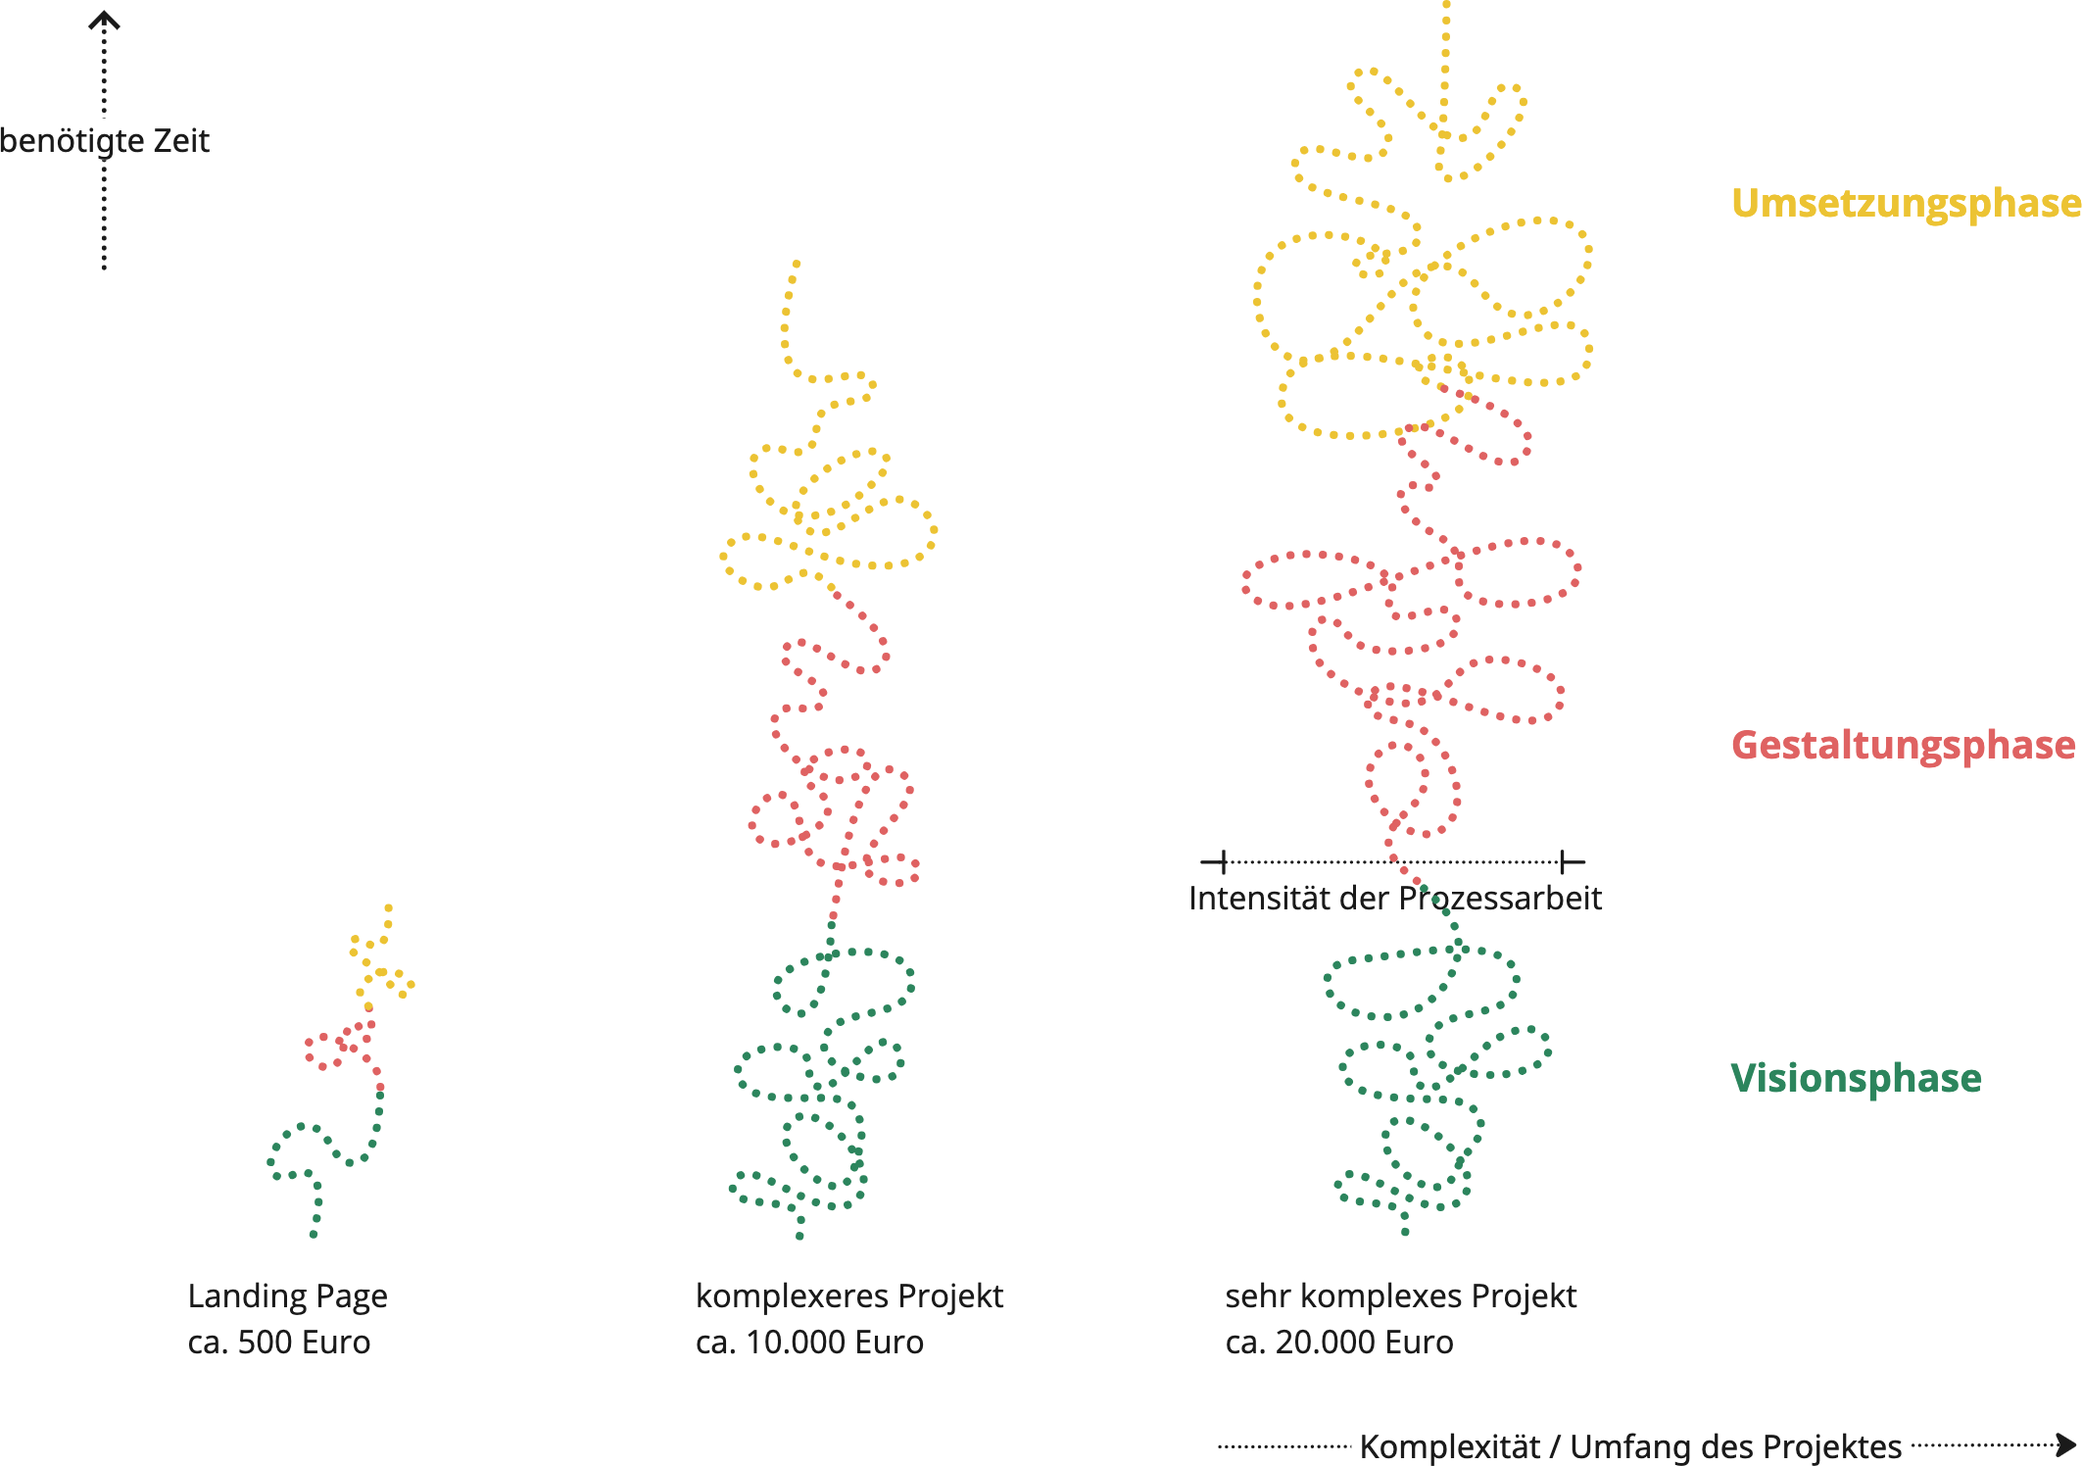
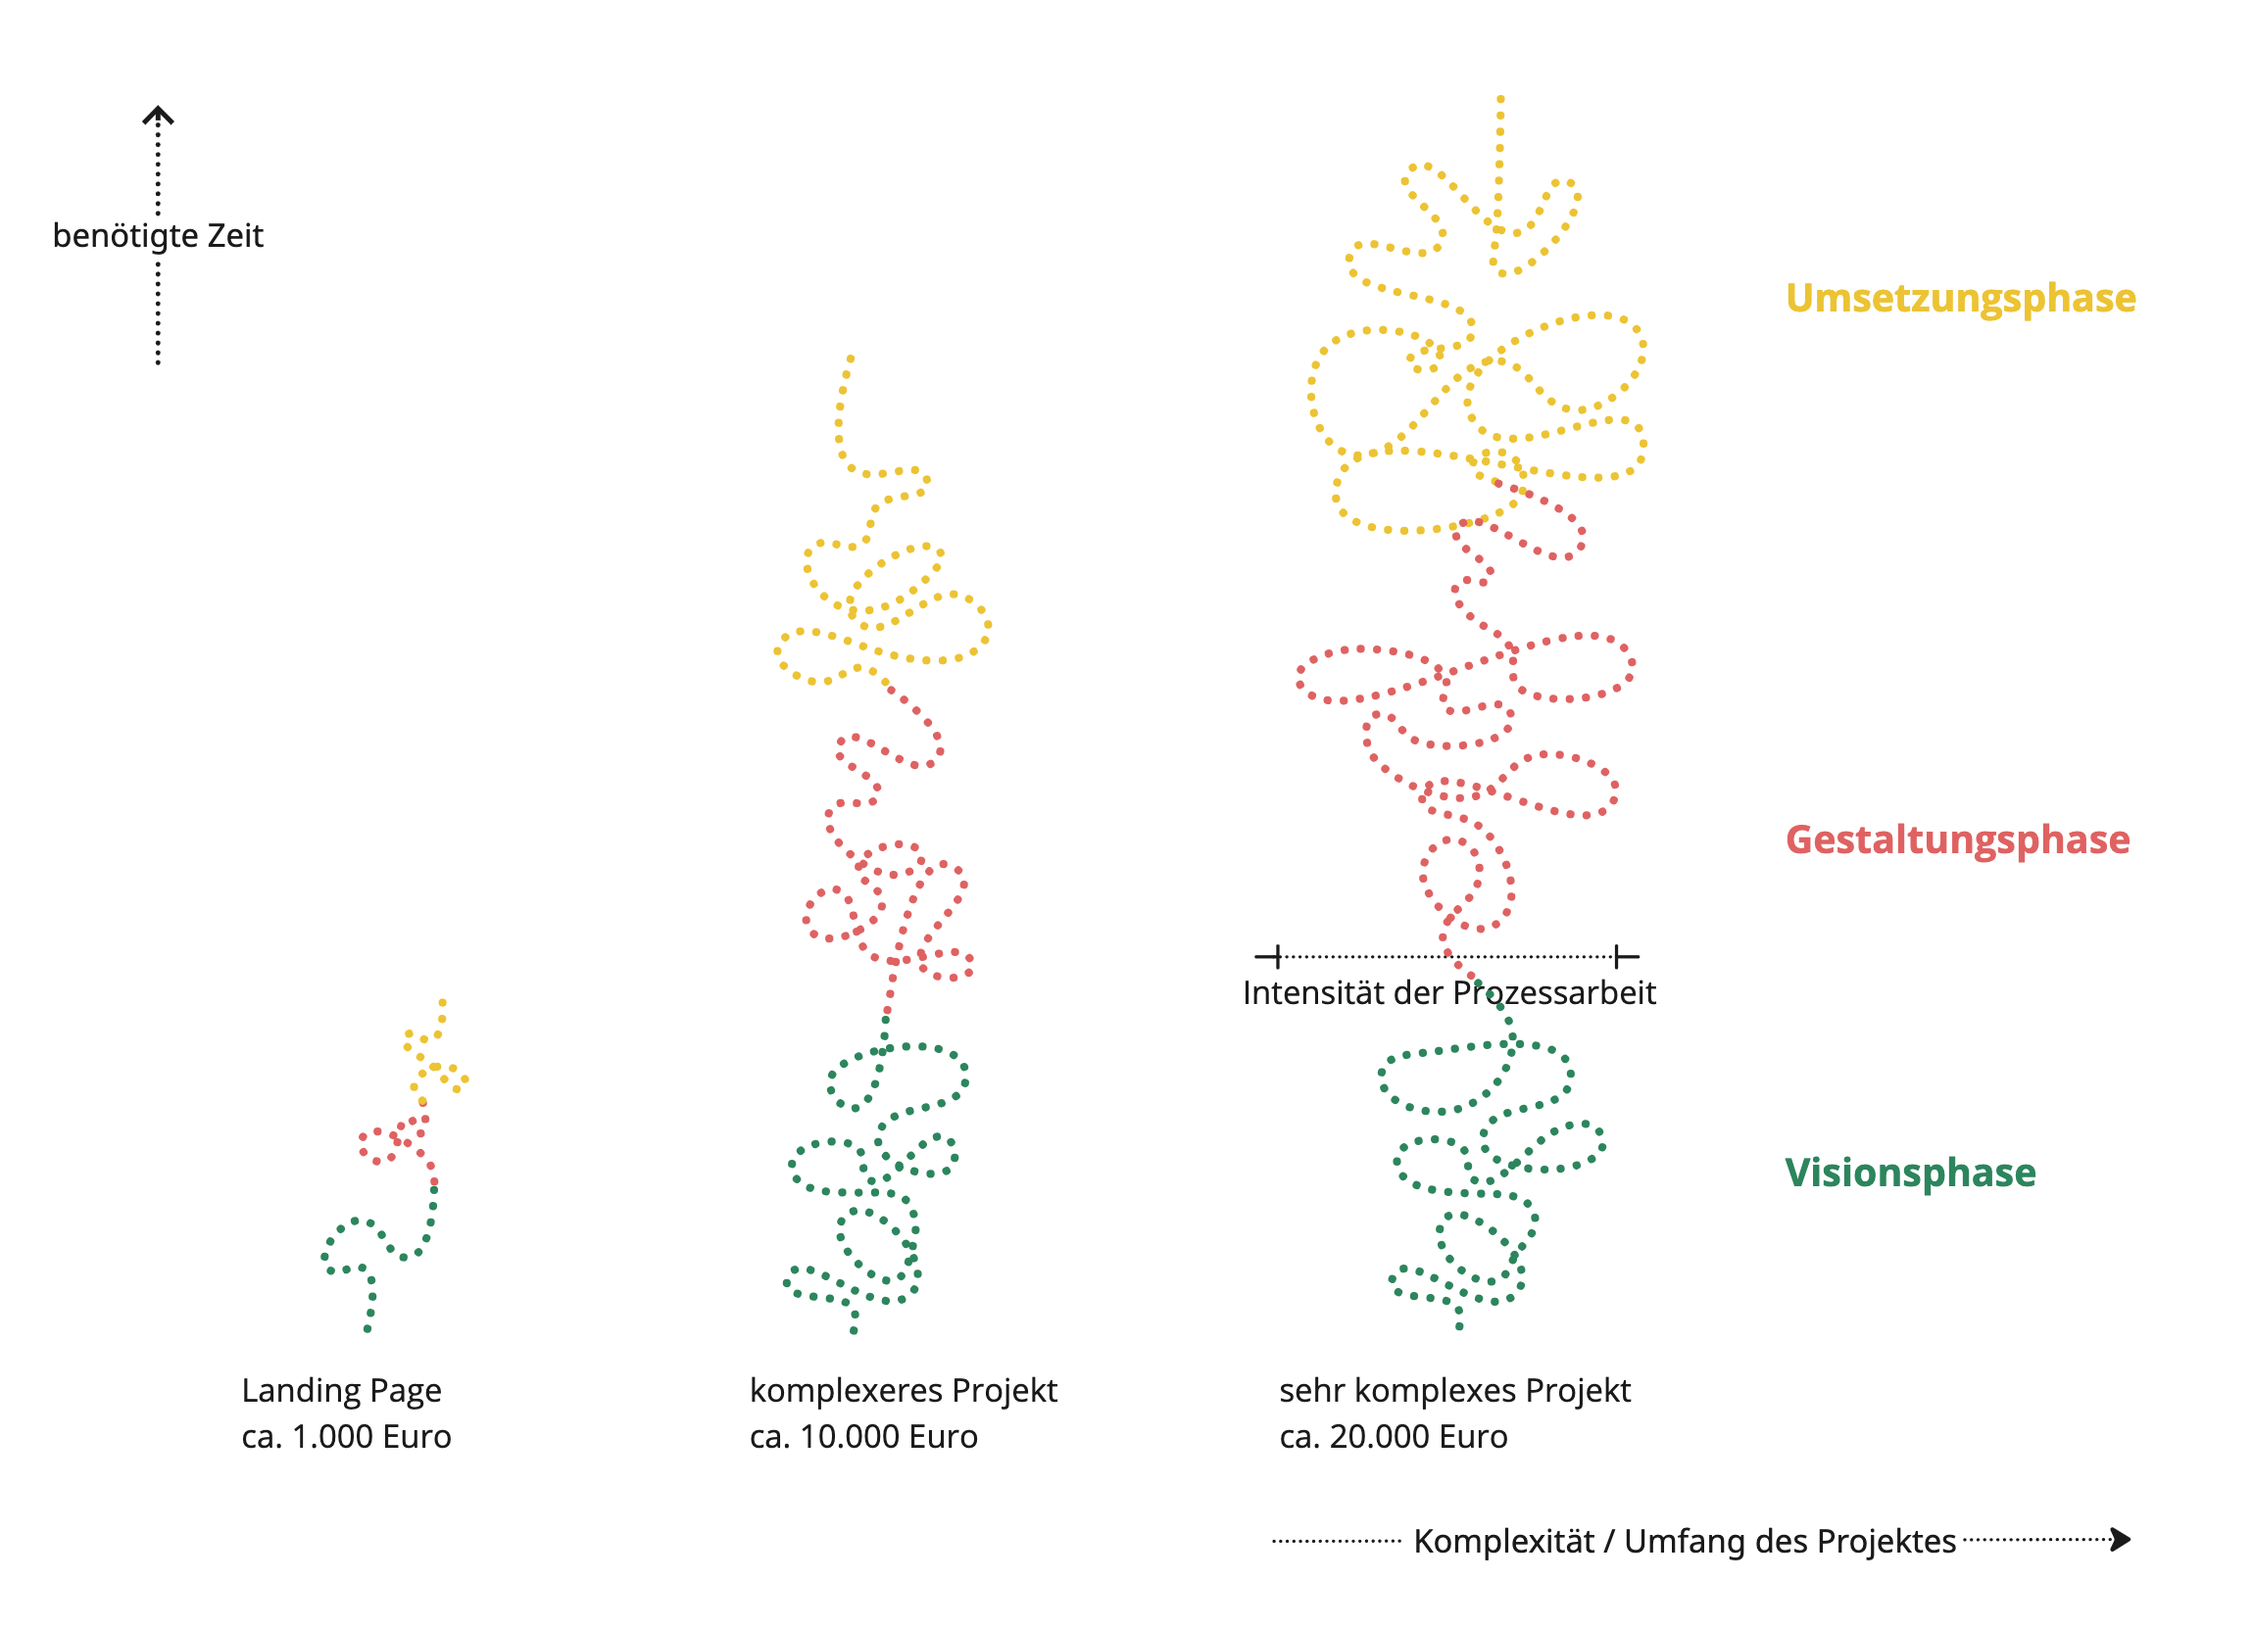
Update Kostendiagramm and payment details

diff --git a/docs/workflow/README.md b/docs/workflow/README.md
@@ -74,7 +74,7 @@ Zeitlich kannst du für den gesamten Prozess ca. 4 Monate bis zu einem Jahr einp
 
 ## Gesamtkosten des Projektes
 
-Generell werden die Phasen auf Stundenbasis mit monatlicher Rechnung abgerechnet. Wir können auch, vor allem wenn die Phase kürzer ist, eine Abschlagszahlung nach Beendigung der Phase vereinbaren. Die folgende Grafik zeigt das [Kostendiagramm](https://miro.com/app/board/uXjVL_R46IQ=/?share_link_id=562033574911), welches dir verstehen helfen soll, wie sich die Preisstruktur gestaltet. Es soll dich ausserdem dazu ermächtigen, dein Projekt auf diesen Skalen in etwa einzuordnen, um dir einen ersten Überblick über die Investition zu verschaffen. Vorab schon einmal: mir ist bewusst, dass das für dich eine grosse Investition sein kann. Da ich möglichst vielen Menschen / Initiativen den Zugang zu einer professionellen, nachhaltig und gut geplanten und umgesetzten Website ermöglichen möchte, bin ich offen für einige Zahlungsabsprachen: Tausch, Ratenzahlung, Abschlagszahlung, mtl. Zahlungseinheiten, etc. sind möglich. Lass uns gerne darüber sprechen.
+Generell wird das Projekt pro Phase abgerechnet. Wir können auch, vor allem wenn die Phase etwas länger ist, auf Stundenbasis mit monatlicher Rechnung abrechnen. So kannst du einen gewissen Rateneffekt nutzen. Die folgende Grafik zeigt das [Kostendiagramm](https://miro.com/app/board/uXjVL_R46IQ=/?share_link_id=562033574911), welches dir verstehen helfen soll, wie sich die Preisstruktur gestaltet. Es soll dich ausserdem dazu ermächtigen, dein Projekt auf diesen Skalen in etwa einzuordnen, um dir einen ersten Überblick über die Investition zu verschaffen. Vorab schon einmal: mir ist bewusst, dass das für dich eine grosse Investition sein kann. Da ich möglichst vielen Menschen / Initiativen den Zugang zu einer professionellen, nachhaltig und gut geplanten und umgesetzten Website ermöglichen möchte, bin ich offen für einige Zahlungsabsprachen: Tausch, Ratenzahlung, Abschlagszahlung, mtl. Zahlungseinheiten, etc. sind möglich. Lass uns gerne darüber sprechen.
 
 <a href="https://miro.com/app/board/uXjVL_R46IQ=/" target="_blank">
 <c-image :src="require('./kostendiagramm.png')" :alt="'Kostendiagramm'" />
